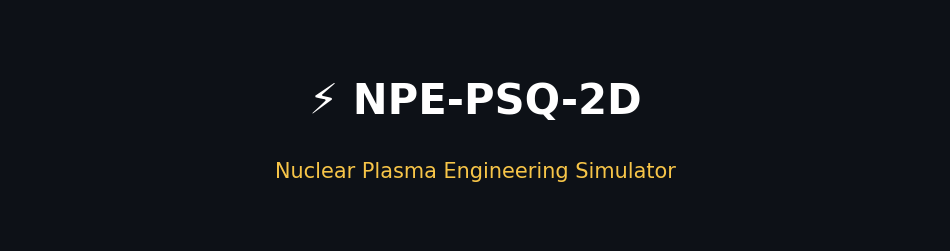
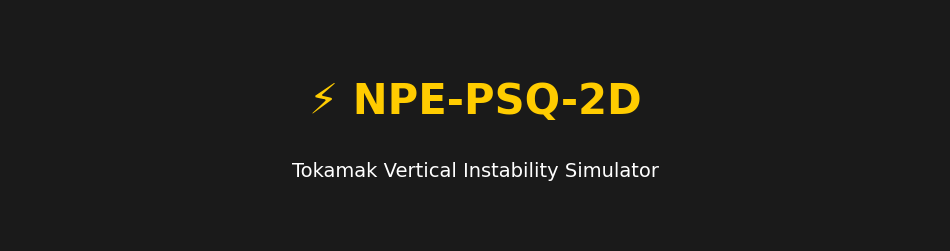
Upgrade: Physics Engine V1.0 with Docs and Visuals

Changed region(s): [[0.3358, 0.3068, 0.6716, 0.4741], [0.2747, 0.6414, 0.7021, 0.7251]]

diff --git a/src/npe/plant.py b/src/npe/plant.py
@@ -1,0 +1,44 @@
+
+import numpy as np
+
+class TokamakPlant:
+    """
+    NPE-PSQ-2D: Linearized Vertical Instability Model (VDE)
+    Simulates the vertical motion of a plasma filament in an unstable magnetic field.
+    
+    Dynamics:
+    dz/dt = v
+    dv/dt = gamma^2 * z + (F_act / m)
+    """
+    def __init__(self, gamma=10.0, dt=0.001):
+        self.gamma = gamma  # Growth rate (instability factor)
+        self.dt = dt
+        self.state = np.array([0.05, 0.0]) # z (m), v (m/s)
+        self.max_z = 1.0 # Wall limit
+        
+    def reset(self):
+        self.state = np.array([0.05, 0.0]) # Start with 5cm offset
+        return self.state
+
+    def step(self, u_volts):
+        z, v = self.state
+        
+        # Physics Constants
+        mass_factor = 50.0 # Inertia proxy
+        
+        # Equations of Motion (Unstable)
+        # acceleration = (instability force) + (control force)
+        acc = (self.gamma**2 * z) + (u_volts * mass_factor)
+        
+        # Euler Integration
+        v_new = v + acc * self.dt
+        z_new = z + v * self.dt
+        
+        # Add Process Noise (Plasma Turbulence)
+        z_new += np.random.normal(0, 0.0001)
+        
+        self.state = np.array([z_new, v_new])
+        
+        # Check collision
+        done = bool(abs(z_new) > self.max_z)
+        return self.state, done

diff --git a/README.md b/README.md
@@ -2,7 +2,7 @@
   <img src="docs/banner.png" alt="NPE Banner" width="100%">
   <br><br>
 
-  [![Python](https://img.shields.io/badge/Python-3.8%2B-blue?style=for-the-badge&logo=python&logoColor=white)]()
+  [![Python](https://img.shields.io/badge/Python-3.8%2B-yellow?style=for-the-badge&logo=python&logoColor=black)]()
   [![License](https://img.shields.io/badge/License-MIT-green?style=for-the-badge)]()
   [![Physics](https://img.shields.io/badge/Physics-Unstable-red?style=for-the-badge)]()
 </div>
@@ -12,27 +12,24 @@
 # ⚡ NPE-PSQ-2D: Tokamak Physics Engine
 
 > **Lightweight vertical instability simulator for Hardware-in-the-Loop testing**
-> *The testing ground for AION-CORE*
+> *Developed by a 17-year-old researcher | 2025*
 
-## 🎯 Overview
+## 🎯 What is this?
 
 **NPE-PSQ (Nuclear Plasma Engineering - Plasma Simulator)** is a specialized 2D physics engine designed to simulate the **Vertical Displacement Event (VDE)** in elongated tokamak plasmas.
 
-Unlike general-purpose simulators, NPE-PSQ focuses strictly on the unstable vertical dynamics ($dz/dt$) to validate high-frequency control algorithms under chaotic conditions.
+It serves as the chaos generator to test the **[AION-CORE](https://github.com/Akirabrs/AION-CORE)** control framework.
 
 ---
 
-## ⚛ Physics Model
+## ⚛ The Physics (Why it crashes)
 
-The simulator models the plasma as a rigid current filament moving in a magnetic field with a negative decay index (unstable equilibrium).
+Tokamaks with elongated cross-sections ($k > 1$) are inherently vertically unstable. Without active control, any small perturbation grows exponentially due to the negative decay index of the magnetic field.
 
-**State Space Equation:**
-$$ \dot{x} = A x + B u + w $$
+**Dynamics Equation:**
+$$ \ddot{z} = \gamma^2 z + \frac{F_{act}}{m} + w_{noise} $$
 
-Where $A$ contains the instability growth rate $\gamma > 0$ (eigenvalue > 1).
-
-### Simulation Output
-Comparison between an uncontrolled VDE (Red) and AION stabilization (Green):
+Where $\gamma$ is the instability growth rate (typically $10^3 s^{-1}$ for high-performance reactors).
 
 ![Physics Demo](docs/physics_demo.png)
 
@@ -43,30 +40,31 @@ Comparison between an uncontrolled VDE (Red) and AION stabilization (Green):
 Designed to be easy for Reinforcement Learning or Classical Control testing.
 
 ```python
-from simulator.plant import TokamakPlant
+from npe.plant import TokamakPlant
 
-# Initialize Reactor
-env = TokamakPlant(instability_rate=1.05)
+# Initialize Reactor (Instability Factor 10.0)
+env = TokamakPlant(gamma=10.0)
 
-# Control Loop
+# Simulation Loop
 state = env.reset()
 for t in range(100):
-    action = -50.0 * state[0] # P-Controller
-    next_state = env.step(action)
-    print(f"Position Z: {next_state[0]:.4f} m")
+    # Your Controller Here (e.g., AION)
+    u = -50.0 * state[0]
+    
+    # Step Physics
+    next_state, crashed = env.step(u)
+    
+    if crashed:
+        print("💥 SCRAM: Plasma hit the wall!")
+        break
 ```
 
 ---
 
-## 🏗 Integration with AION
+## 🔗 Integration
 
-```mermaid
-graph LR
-    AION[🧠 AION-CORE] -->|Voltage (u)| NPE[⚡ NPE-PSQ-2D]
-    NPE -->|State (z, dz)| AION
-    NPE -->|Disturbances| Noise((Gaussian Noise))
-    style NPE fill:#f9f,stroke:#333,stroke-width:2px
-```
+This engine is the dedicated testing ground for:
+👉 **[AION-CORE: Adaptive Robust Control Framework](https://github.com/Akirabrs/AION-CORE)**
 
 ---
 
@@ -76,7 +74,3 @@ graph LR
 *Fusion Energy Enthusiast & Developer*
 
 ---
-
-## 📚 References
-1. **ITER Technical Basis** - Chapter 2: Plasma Control.
-2. **Lazarus et al.** - *Vertical Stability in Highly Elongated Tokamaks*.
